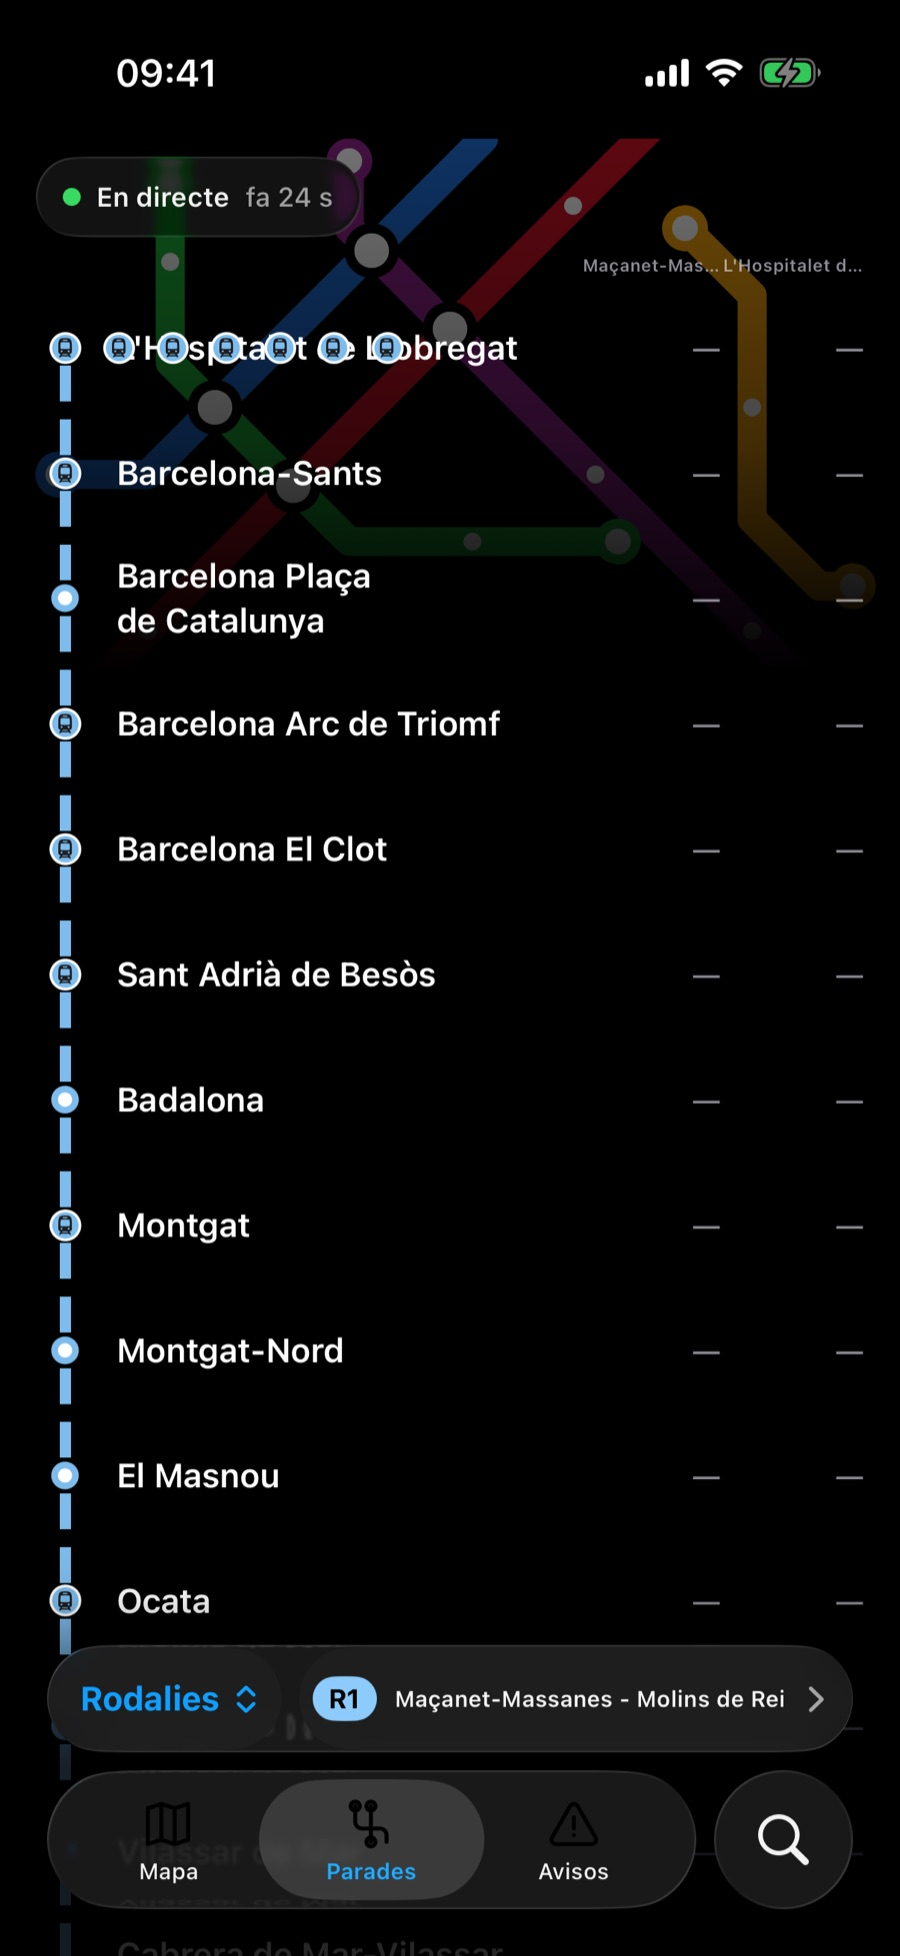
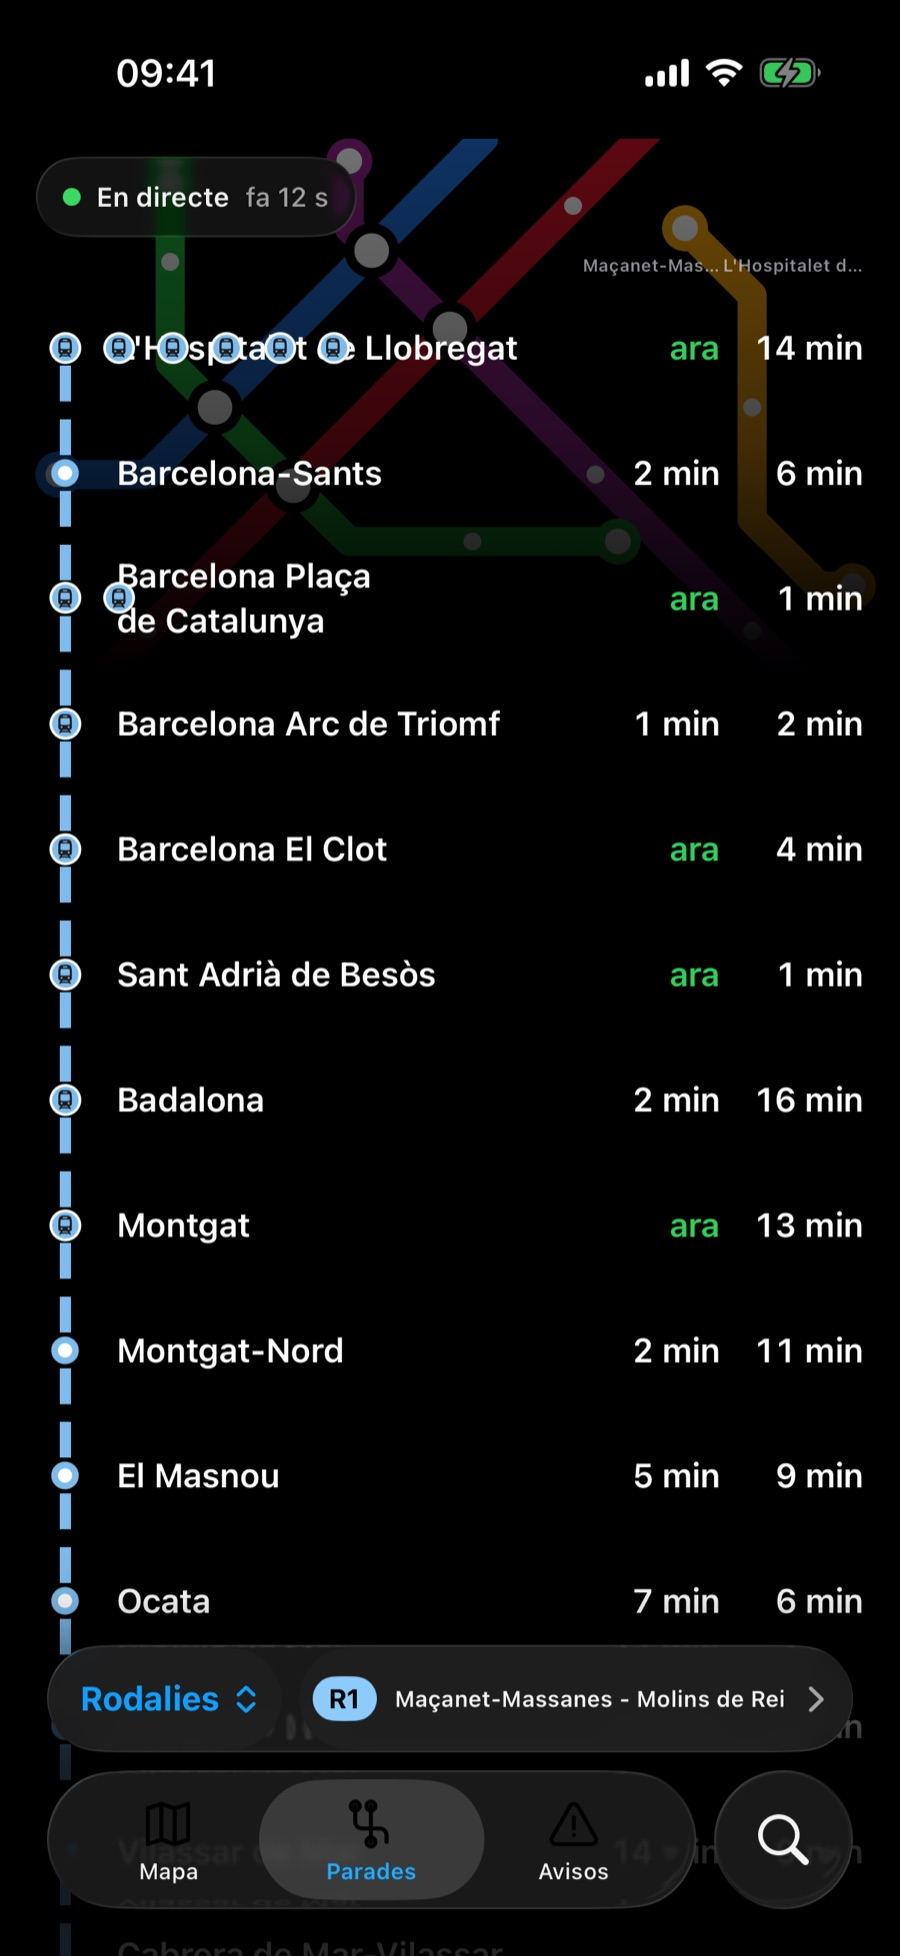
feat(website): Rodalies Parades capture with the published timetable
The schedule pack is now live as a release asset, so the R1 timeline
shows real departures with the green now — the chapter carries both the
map and the stop timeline.

diff --git a/website/es/index.html b/website/es/index.html
@@ -239,6 +239,9 @@
           <figure class="device">
             <img src="/assets/rodalies.jpg" alt="El mapa de TransportCat en modo Rodalies con los trenes R1 en directo por el Maresme y el rótulo Datos: Renfe, CC BY 4.0." loading="lazy" width="900" height="1956">
           </figure>
+          <figure class="device small">
+            <img src="/assets/rodalies-parades.jpg" alt="La pantalla Paradas del modo Rodalies con la línea R1, las salidas de cada estación y el «ya» en verde." loading="lazy" width="900" height="1957">
+          </figure>
         </div>
       </section>
 

diff --git a/website/index.html b/website/index.html
@@ -252,6 +252,9 @@
           <figure class="device">
             <img src="/assets/rodalies.jpg" alt="El mapa de TransportCat en mode Rodalies amb els trens R1 en directe pel Maresme i el rètol Dades: Renfe, CC BY 4.0." loading="lazy" width="900" height="1956">
           </figure>
+          <figure class="device small">
+            <img src="/assets/rodalies-parades.jpg" alt="La pantalla Parades del mode Rodalies amb la línia R1, les sortides de cada estació i el «ara» en verd." loading="lazy" width="900" height="1957">
+          </figure>
         </div>
       </section>
 

diff --git a/website/en/index.html b/website/en/index.html
@@ -239,6 +239,9 @@
           <figure class="device">
             <img src="/assets/rodalies.jpg" alt="TransportCat's map in Rodalies mode with R1 trains live along the Maresme coast and the Data: Renfe, CC BY 4.0 badge." loading="lazy" width="900" height="1956">
           </figure>
+          <figure class="device small">
+            <img src="/assets/rodalies-parades.jpg" alt="The Stops screen for Rodalies line R1 with every station's departures and the green «now»." loading="lazy" width="900" height="1957">
+          </figure>
         </div>
       </section>
 
